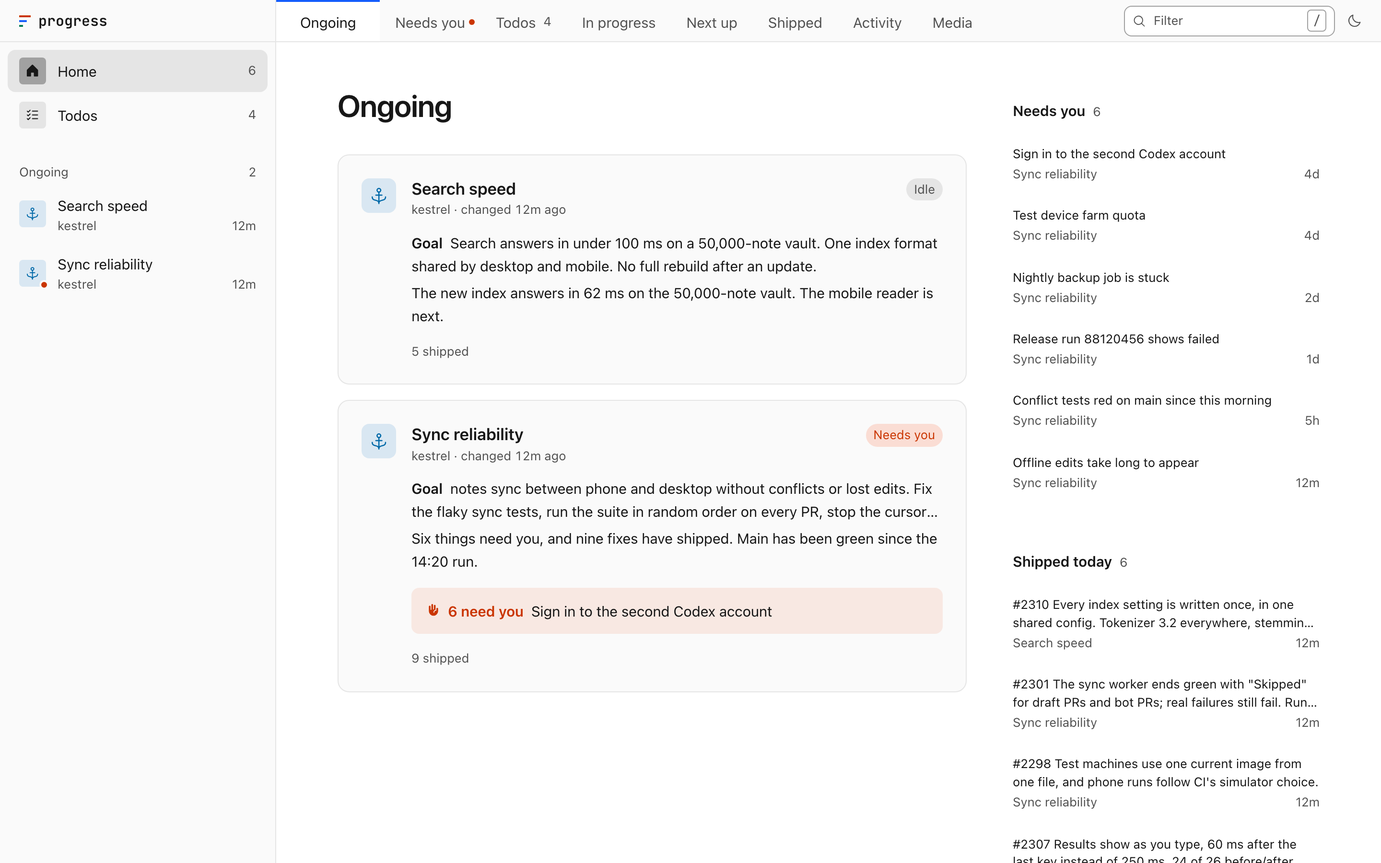
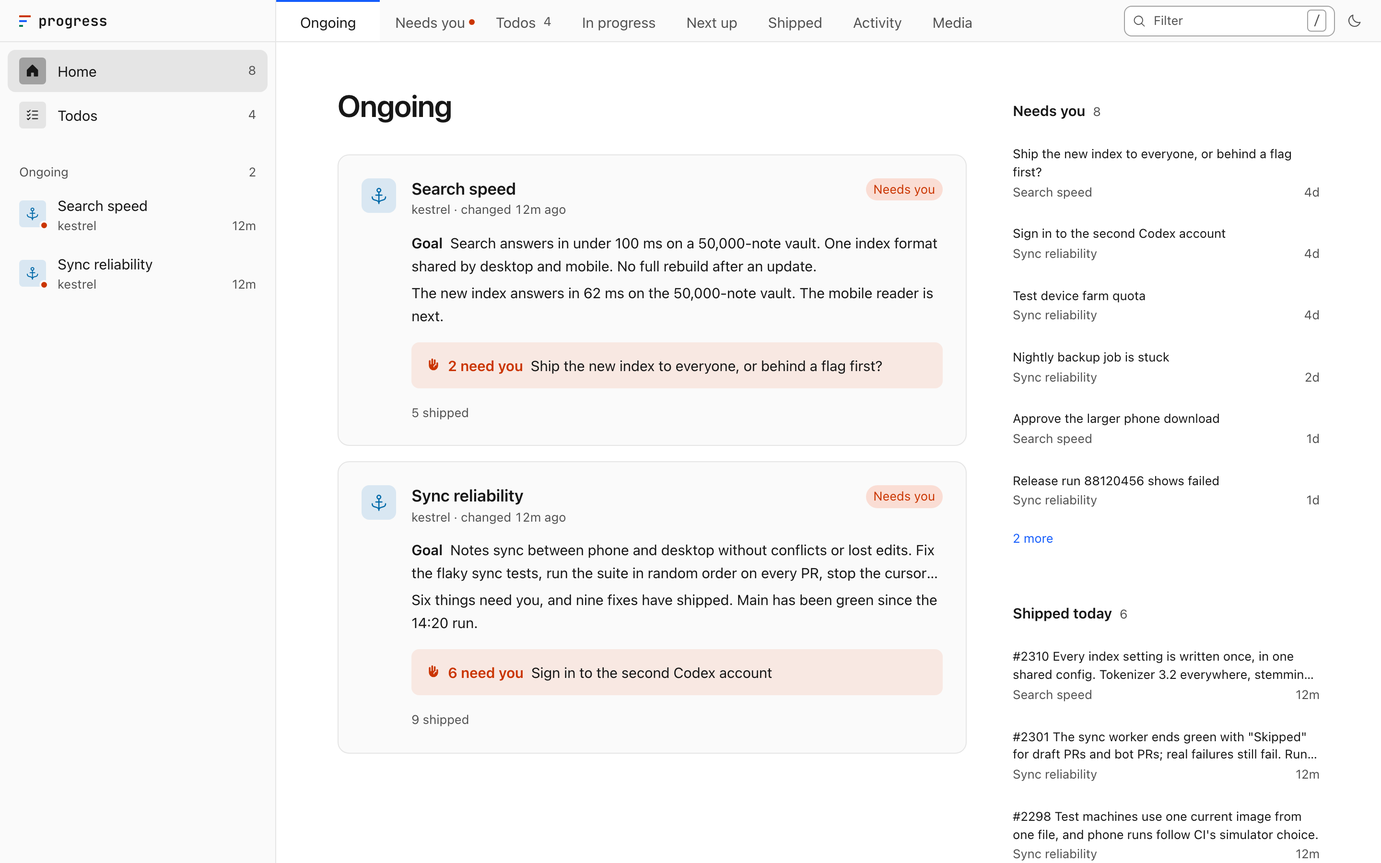
README, setup prompt and sample pages after a cold review and a test run
A reviewer checked the README against the code, and an agent followed
PROMPT.md in a clean Linux container. The README's claims and pictures
now match the hub, the prompt covers git, a fresh Bun and Linux, and
progress check takes the page's own path.

diff --git a/docs/how-it-works.html b/docs/how-it-works.html
@@ -97,14 +97,14 @@
 <main>
   <header>
     <h1>How the progress hub works</h1>
-    <p class="sub">Agents write plain Markdown pages. One small program on this Mac reads those pages and T3, and serves the app you open. It all runs on this Mac.</p>
+    <p class="sub">Agents write plain Markdown pages. One small program on this machine reads those pages and, when you use T3 Code, its database, and serves the app you open. It all runs on this machine.</p>
   </header>
 
   <div class="map">
     <svg viewBox="0 0 1340 470" role="img" aria-label="Agents write pages into the progress home. The hub reads the pages and T3's database, and serves the app to this Mac's browser and, over Tailscale, to a phone.">
       <defs><marker id="arrow" viewBox="0 0 10 10" refX="8.5" refY="5" markerWidth="7" markerHeight="7" orient="auto-start-reverse"><path d="M0 0 L10 5 L0 10 z"/></marker></defs>
       <g class="region violet"><rect x="0" y="0" width="230" height="470" rx="14"/><text x="16" y="28">Agents write</text></g>
-<g class="region teal"><rect x="300" y="0" width="360" height="470" rx="14"/><text x="316" y="28">Files on this Mac</text></g>
+<g class="region teal"><rect x="300" y="0" width="360" height="470" rx="14"/><text x="316" y="28">Files on this machine</text></g>
 <g class="region blue"><rect x="730" y="0" width="260" height="470" rx="14"/><text x="746" y="28">The hub reads and serves</text></g>
 <g class="region emerald"><rect x="1060" y="0" width="280" height="470" rx="14"/><text x="1076" y="28">You read</text></g>
 <g class="edge" data-edge="uses"><path d="M115 236 L115 137" marker-end="url(#arrow)"/><text x="125" y="190" text-anchor="start">runs</text></g>
@@ -121,12 +121,12 @@
 <g class="edge" data-edge="answer"><path d="M1200 236 L1200 361" marker-end="url(#arrow)"/><text x="1190" y="302" text-anchor="end">Answer in thread</text></g>
 <g class="node" data-node="pages" tabindex="0" data-what="A folder that outlives scratch space: one folder per piece of work." data-why="Plain files. An agent edits Markdown and the hub does the rest." data-title="Progress home"><title>A folder that outlives scratch space: one folder per piece of work. Plain files. An agent edits Markdown and the hub does the rest.</title><rect x="316" y="52" width="328" height="290" rx="10"/><g transform="translate(330,68)"><circle cx="18" cy="18" r="18" class="disc"/><path transform="translate(7,7) scale(0.0859)" d="M245,110.64A16,16,0,0,0,232,104H216V88a16,16,0,0,0-16-16H130.67L102.94,51.2a16.14,16.14,0,0,0-9.6-3.2H40A16,16,0,0,0,24,64V208h0a8,8,0,0,0,8,8H211.1a8,8,0,0,0,7.59-5.47l28.49-85.47A16.05,16.05,0,0,0,245,110.64ZM93.34,64,123.2,86.4A8,8,0,0,0,128,88h72v16H69.77a16,16,0,0,0-15.18,10.94L40,158.7V64Zm112,136H43.1l26.67-80H232Z"/></g><text class="t" x="378" y="83">Progress home</text><text class="s" x="378" y="103">one folder per piece of work</text><line class="rule" x1="330" y1="126" x2="630" y2="126"/><g class="frow agent"><circle cx="340" cy="152" r="4"/><text class="f" x="354" y="156">progress.md</text><text class="s" x="468" y="156">the page</text></g><g class="frow agent"><circle cx="340" cy="186" r="4"/><text class="f" x="354" y="190">images/</text><text class="s" x="468" y="190">what the page shows</text></g><g class="frow agent"><circle cx="340" cy="220" r="4"/><text class="f" x="354" y="224">.sessions</text><text class="s" x="468" y="224">its agent sessions</text></g><g class="frow hub"><circle cx="340" cy="254" r="4"/><text class="f" x="354" y="258">.history.jsonl</text><text class="s" x="468" y="258">what changed, and when</text></g><g class="frow hub"><circle cx="340" cy="288" r="4"/><text class="f" x="354" y="292">.marks.json</text><text class="s" x="468" y="292">what you viewed</text></g><line class="rule" x1="330" y1="304" x2="630" y2="304"/><g class="frow agent"><circle cx="340" cy="324" r="4"/><text class="s" x="352" y="328">an agent writes</text></g><g class="frow hub"><circle cx="466" cy="324" r="4"/><text class="s" x="478" y="328">the hub writes</text></g></g>
 <g class="node" data-node="cli" tabindex="0" data-what="A small command line tool." data-why="An agent starts a page with one command, so every page has the same shape." data-title="progress CLI"><title>A small command line tool. An agent starts a page with one command, so every page has the same shape.</title><rect x="16" y="52" width="198" height="76" rx="10"/><g transform="translate(30,68)"><circle cx="18" cy="18" r="18" class="disc"/><path transform="translate(7,7) scale(0.0859)" d="M117.31,134l-72,64a8,8,0,1,1-10.63-12L100,128,34.69,70A8,8,0,1,1,45.32,58l72,64a8,8,0,0,1,0,12ZM216,184H120a8,8,0,0,0,0,16h96a8,8,0,0,0,0-16Z"/></g><text class="t" x="78" y="83">progress CLI</text><text class="s" x="78" y="103">new · join · check</text></g>
-<g class="node" data-node="agent" tabindex="0" data-what="Claude and Codex agents doing the work, each in a T3 thread." data-why="They write the page. Nothing else does." data-title="Agents"><title>Claude and Codex agents doing the work, each in a T3 thread. They write the page. Nothing else does.</title><rect x="16" y="236" width="198" height="76" rx="10"/><g transform="translate(30,252)"><circle cx="18" cy="18" r="18" class="disc"/><path transform="translate(7,7) scale(0.0859)" d="M200,48H136V16a8,8,0,0,0-16,0V48H56A32,32,0,0,0,24,80V192a32,32,0,0,0,32,32H200a32,32,0,0,0,32-32V80A32,32,0,0,0,200,48Zm16,144a16,16,0,0,1-16,16H56a16,16,0,0,1-16-16V80A16,16,0,0,1,56,64H200a16,16,0,0,1,16,16Zm-52-56H92a28,28,0,0,0,0,56h72a28,28,0,0,0,0-56Zm-24,16v24H116V152ZM80,164a12,12,0,0,1,12-12h8v24H92A12,12,0,0,1,80,164Zm84,12h-8V152h8a12,12,0,0,1,0,24ZM72,108a12,12,0,1,1,12,12A12,12,0,0,1,72,108Zm88,0a12,12,0,1,1,12,12A12,12,0,0,1,160,108Z"/></g><text class="t" x="78" y="267">Agents</text><text class="s" x="78" y="287">in T3 threads</text></g>
-<g class="node" data-node="t3" tabindex="0" data-what="T3&#x27;s own record of threads, agents, pull requests and pending questions." data-why="The hub reads it, so agents never type statuses or timestamps." data-title="T3&#x27;s database"><title>T3&#x27;s own record of threads, agents, pull requests and pending questions. The hub reads it, so agents never type statuses or timestamps.</title><rect x="316" y="370" width="328" height="76" rx="10"/><g transform="translate(330,386)"><circle cx="18" cy="18" r="18" class="disc"/><path transform="translate(7,7) scale(0.0859)" d="M128,24C74.17,24,32,48.6,32,80v96c0,31.4,42.17,56,96,56s96-24.6,96-56V80C224,48.6,181.83,24,128,24Zm80,104c0,9.62-7.88,19.43-21.61,26.92C170.93,163.35,150.19,168,128,168s-42.93-4.65-58.39-13.08C55.88,147.43,48,137.62,48,128V111.36c17.06,15,46.23,24.64,80,24.64s62.94-9.68,80-24.64ZM69.61,53.08C85.07,44.65,105.81,40,128,40s42.93,4.65,58.39,13.08C200.12,60.57,208,70.38,208,80s-7.88,19.43-21.61,26.92C170.93,115.35,150.19,120,128,120s-42.93-4.65-58.39-13.08C55.88,99.43,48,89.62,48,80S55.88,60.57,69.61,53.08ZM186.39,202.92C170.93,211.35,150.19,216,128,216s-42.93-4.65-58.39-13.08C55.88,195.43,48,185.62,48,176V159.36c17.06,15,46.23,24.64,80,24.64s62.94-9.68,80-24.64V176C208,185.62,200.12,195.43,186.39,202.92Z"/></g><text class="t" x="378" y="401">T3&#x27;s database</text><text class="s" x="378" y="421">~/.t3/userdata/statev2.sqlite</text></g>
-<g class="node" data-node="hub" tabindex="0" data-what="One small program that starts when you log in." data-why="It turns files and T3 into the app." data-title="The hub"><title>One small program that starts when you log in. It turns files and T3 into the app.</title><rect x="746" y="96" width="228" height="124" rx="10"/><g transform="translate(760,112)"><circle cx="18" cy="18" r="18" class="disc"/><path transform="translate(7,7) scale(0.0859)" d="M128,88a40,40,0,1,0,40,40A40,40,0,0,0,128,88Zm0,64a24,24,0,1,1,24-24A24,24,0,0,1,128,152Zm73.71,7.14a80,80,0,0,1-14.08,22.2,8,8,0,0,1-11.92-10.67,63.95,63.95,0,0,0,0-85.33,8,8,0,1,1,11.92-10.67,80.08,80.08,0,0,1,14.08,84.47ZM69,103.09a64,64,0,0,0,11.26,67.58,8,8,0,0,1-11.92,10.67,79.93,79.93,0,0,1,0-106.67A8,8,0,1,1,80.29,85.34,63.77,63.77,0,0,0,69,103.09ZM248,128a119.58,119.58,0,0,1-34.29,84,8,8,0,1,1-11.42-11.2,103.9,103.9,0,0,0,0-145.56A8,8,0,1,1,213.71,44,119.58,119.58,0,0,1,248,128ZM53.71,200.78A8,8,0,1,1,42.29,212a119.87,119.87,0,0,1,0-168,8,8,0,1,1,11.42,11.2,103.9,103.9,0,0,0,0,145.56Z"/></g><text class="t" x="808" y="127">The hub</text><text class="s" x="808" y="147">one process, port 4747</text><text class="s" x="762" y="180">Looks every 2 seconds.</text><text class="s" x="762" y="200">Tells the app when things change.</text></g>
+<g class="node" data-node="agent" tabindex="0" data-what="Your coding agents doing the work, each in its own session." data-why="They write the page. Nothing else does." data-title="Agents"><title>Your coding agents doing the work, each in its own session. They write the page. Nothing else does.</title><rect x="16" y="236" width="198" height="76" rx="10"/><g transform="translate(30,252)"><circle cx="18" cy="18" r="18" class="disc"/><path transform="translate(7,7) scale(0.0859)" d="M200,48H136V16a8,8,0,0,0-16,0V48H56A32,32,0,0,0,24,80V192a32,32,0,0,0,32,32H200a32,32,0,0,0,32-32V80A32,32,0,0,0,200,48Zm16,144a16,16,0,0,1-16,16H56a16,16,0,0,1-16-16V80A16,16,0,0,1,56,64H200a16,16,0,0,1,16,16Zm-52-56H92a28,28,0,0,0,0,56h72a28,28,0,0,0,0-56Zm-24,16v24H116V152ZM80,164a12,12,0,0,1,12-12h8v24H92A12,12,0,0,1,80,164Zm84,12h-8V152h8a12,12,0,0,1,0,24ZM72,108a12,12,0,1,1,12,12A12,12,0,0,1,72,108Zm88,0a12,12,0,1,1,12,12A12,12,0,0,1,160,108Z"/></g><text class="t" x="78" y="267">Agents</text><text class="s" x="78" y="287">in their own sessions</text></g>
+<g class="node" data-node="t3" tabindex="0" data-what="T3&#x27;s own record of threads, agents, pull requests and pending questions." data-why="The hub reads it, so agents never type statuses or timestamps." data-title="T3 Code&#x27;s database"><title>T3&#x27;s own record of threads, agents, pull requests and pending questions. The hub reads it, so agents never type statuses or timestamps.</title><rect x="316" y="370" width="328" height="76" rx="10"/><g transform="translate(330,386)"><circle cx="18" cy="18" r="18" class="disc"/><path transform="translate(7,7) scale(0.0859)" d="M128,24C74.17,24,32,48.6,32,80v96c0,31.4,42.17,56,96,56s96-24.6,96-56V80C224,48.6,181.83,24,128,24Zm80,104c0,9.62-7.88,19.43-21.61,26.92C170.93,163.35,150.19,168,128,168s-42.93-4.65-58.39-13.08C55.88,147.43,48,137.62,48,128V111.36c17.06,15,46.23,24.64,80,24.64s62.94-9.68,80-24.64ZM69.61,53.08C85.07,44.65,105.81,40,128,40s42.93,4.65,58.39,13.08C200.12,60.57,208,70.38,208,80s-7.88,19.43-21.61,26.92C170.93,115.35,150.19,120,128,120s-42.93-4.65-58.39-13.08C55.88,99.43,48,89.62,48,80S55.88,60.57,69.61,53.08ZM186.39,202.92C170.93,211.35,150.19,216,128,216s-42.93-4.65-58.39-13.08C55.88,195.43,48,185.62,48,176V159.36c17.06,15,46.23,24.64,80,24.64s62.94-9.68,80-24.64V176C208,185.62,200.12,195.43,186.39,202.92Z"/></g><text class="t" x="378" y="401">T3 Code&#x27;s database</text><text class="s" x="378" y="421">~/.t3/userdata/statev2.sqlite</text></g>
+<g class="node" data-node="hub" tabindex="0" data-what="One small program that starts when you log in." data-why="It turns the files and what T3 Code knows into the app." data-title="The hub"><title>One small program that starts when you log in. It turns the files and what T3 Code knows into the app.</title><rect x="746" y="96" width="228" height="124" rx="10"/><g transform="translate(760,112)"><circle cx="18" cy="18" r="18" class="disc"/><path transform="translate(7,7) scale(0.0859)" d="M128,88a40,40,0,1,0,40,40A40,40,0,0,0,128,88Zm0,64a24,24,0,1,1,24-24A24,24,0,0,1,128,152Zm73.71,7.14a80,80,0,0,1-14.08,22.2,8,8,0,0,1-11.92-10.67,63.95,63.95,0,0,0,0-85.33,8,8,0,1,1,11.92-10.67,80.08,80.08,0,0,1,14.08,84.47ZM69,103.09a64,64,0,0,0,11.26,67.58,8,8,0,0,1-11.92,10.67,79.93,79.93,0,0,1,0-106.67A8,8,0,1,1,80.29,85.34,63.77,63.77,0,0,0,69,103.09ZM248,128a119.58,119.58,0,0,1-34.29,84,8,8,0,1,1-11.42-11.2,103.9,103.9,0,0,0,0-145.56A8,8,0,1,1,213.71,44,119.58,119.58,0,0,1,248,128ZM53.71,200.78A8,8,0,1,1,42.29,212a119.87,119.87,0,0,1,0-168,8,8,0,1,1,11.42,11.2,103.9,103.9,0,0,0,0,145.56Z"/></g><text class="t" x="808" y="127">The hub</text><text class="s" x="808" y="147">one process, port 4747</text><text class="s" x="762" y="180">Looks every 2 seconds.</text><text class="s" x="762" y="200">Tells the app when things change.</text></g>
 <g class="node" data-node="gh" tabindex="0" data-what="Titles and states of pull requests and commits." data-why="So a link in a page shows as a named chip." data-title="GitHub"><title>Titles and states of pull requests and commits. So a link in a page shows as a named chip.</title><rect x="746" y="370" width="228" height="76" rx="10"/><g transform="translate(760,386)"><circle cx="18" cy="18" r="18" class="disc"/><path transform="translate(7,7) scale(0.0859)" d="M208.31,75.68A59.78,59.78,0,0,0,202.93,28,8,8,0,0,0,196,24a59.75,59.75,0,0,0-48,24H124A59.75,59.75,0,0,0,76,24a8,8,0,0,0-6.93,4,59.78,59.78,0,0,0-5.38,47.68A58.14,58.14,0,0,0,56,104v8a56.06,56.06,0,0,0,48.44,55.47A39.8,39.8,0,0,0,96,192v8H72a24,24,0,0,1-24-24A40,40,0,0,0,8,136a8,8,0,0,0,0,16,24,24,0,0,1,24,24,40,40,0,0,0,40,40H96v16a8,8,0,0,0,16,0V192a24,24,0,0,1,48,0v40a8,8,0,0,0,16,0V192a39.8,39.8,0,0,0-8.44-24.53A56.06,56.06,0,0,0,216,112v-8A58.14,58.14,0,0,0,208.31,75.68ZM200,112a40,40,0,0,1-40,40H112a40,40,0,0,1-40-40v-8a41.74,41.74,0,0,1,6.9-22.48A8,8,0,0,0,80,73.83a43.81,43.81,0,0,1,.79-33.58,43.88,43.88,0,0,1,32.32,20.06A8,8,0,0,0,119.82,64h32.35a8,8,0,0,0,6.74-3.69,43.87,43.87,0,0,1,32.32-20.06A43.81,43.81,0,0,1,192,73.83a8.09,8.09,0,0,0,1,7.65A41.72,41.72,0,0,1,200,104Z"/></g><text class="t" x="808" y="401">GitHub</text><text class="s" x="808" y="421">through gh</text></g>
-<g class="node" data-node="phone" tabindex="0" data-what="The same app, through your tailnet." data-why="Tailscale forwards port 4747 to this Mac. No account, no cloud." data-title="Phone, other devices"><title>The same app, through your tailnet. Tailscale forwards port 4747 to this Mac. No account, no cloud.</title><rect x="1076" y="52" width="248" height="76" rx="10"/><g transform="translate(1090,68)"><circle cx="18" cy="18" r="18" class="disc"/><path transform="translate(7,7) scale(0.0859)" d="M176,16H80A24,24,0,0,0,56,40V216a24,24,0,0,0,24,24h96a24,24,0,0,0,24-24V40A24,24,0,0,0,176,16ZM72,64H184V192H72Zm8-32h96a8,8,0,0,1,8,8v8H72V40A8,8,0,0,1,80,32Zm96,192H80a8,8,0,0,1-8-8v-8H184v8A8,8,0,0,1,176,224Z"/></g><text class="t" x="1138" y="83">Phone, other devices</text><text class="s" x="1138" y="103">over Tailscale</text></g>
-<g class="node" data-node="browser" tabindex="0" data-what="The app: Home, each work, and the tabs." data-why="It fetches the hub&#x27;s state, and fetches again when the hub says something changed." data-title="Browser on this Mac"><title>The app: Home, each work, and the tabs. It fetches the hub&#x27;s state, and fetches again when the hub says something changed.</title><rect x="1076" y="160" width="248" height="76" rx="10"/><g transform="translate(1090,176)"><circle cx="18" cy="18" r="18" class="disc"/><path transform="translate(7,7) scale(0.0859)" d="M216,40H40A16,16,0,0,0,24,56V200a16,16,0,0,0,16,16H216a16,16,0,0,0,16-16V56A16,16,0,0,0,216,40Zm0,16V88H40V56Zm0,144H40V104H216v96Z"/></g><text class="t" x="1138" y="191">Browser on this Mac</text><text class="s" x="1138" y="211">http://127.0.0.1:4747</text></g>
+<g class="node" data-node="phone" tabindex="0" data-what="The same app, through your tailnet." data-why="Tailscale forwards port 4747 to this machine. No account, no cloud." data-title="Phone, other devices"><title>The same app, through your tailnet. Tailscale forwards port 4747 to this machine. No account, no cloud.</title><rect x="1076" y="52" width="248" height="76" rx="10"/><g transform="translate(1090,68)"><circle cx="18" cy="18" r="18" class="disc"/><path transform="translate(7,7) scale(0.0859)" d="M176,16H80A24,24,0,0,0,56,40V216a24,24,0,0,0,24,24h96a24,24,0,0,0,24-24V40A24,24,0,0,0,176,16ZM72,64H184V192H72Zm8-32h96a8,8,0,0,1,8,8v8H72V40A8,8,0,0,1,80,32Zm96,192H80a8,8,0,0,1-8-8v-8H184v8A8,8,0,0,1,176,224Z"/></g><text class="t" x="1138" y="83">Phone, other devices</text><text class="s" x="1138" y="103">over Tailscale</text></g>
+<g class="node" data-node="browser" tabindex="0" data-what="The app: Home, each work, and the tabs." data-why="It fetches the hub&#x27;s state, and fetches again when the hub says something changed." data-title="Browser on this machine"><title>The app: Home, each work, and the tabs. It fetches the hub&#x27;s state, and fetches again when the hub says something changed.</title><rect x="1076" y="160" width="248" height="76" rx="10"/><g transform="translate(1090,176)"><circle cx="18" cy="18" r="18" class="disc"/><path transform="translate(7,7) scale(0.0859)" d="M216,40H40A16,16,0,0,0,24,56V200a16,16,0,0,0,16,16H216a16,16,0,0,0,16-16V56A16,16,0,0,0,216,40Zm0,16V88H40V56Zm0,144H40V104H216v96Z"/></g><text class="t" x="1138" y="191">Browser on this machine</text><text class="s" x="1138" y="211">http://127.0.0.1:4747</text></g>
 <g class="node" data-node="thread" tabindex="0" data-what="The agent&#x27;s own chat in T3." data-why="The hub only reads. You reply where the agent is." data-title="T3 thread"><title>The agent&#x27;s own chat in T3. The hub only reads. You reply where the agent is.</title><rect x="1076" y="370" width="248" height="76" rx="10"/><g transform="translate(1090,386)"><circle cx="18" cy="18" r="18" class="disc"/><path transform="translate(7,7) scale(0.0859)" d="M140,128a12,12,0,1,1-12-12A12,12,0,0,1,140,128ZM84,116a12,12,0,1,0,12,12A12,12,0,0,0,84,116Zm88,0a12,12,0,1,0,12,12A12,12,0,0,0,172,116Zm60,12A104,104,0,0,1,79.12,219.82L45.07,231.17a16,16,0,0,1-20.24-20.24l11.35-34.05A104,104,0,1,1,232,128Zm-16,0A88,88,0,1,0,51.81,172.06a8,8,0,0,1,.66,6.54L40,216,77.4,203.53a7.85,7.85,0,0,1,2.53-.42,8,8,0,0,1,4,1.08A88,88,0,0,0,216,128Z"/></g><text class="t" x="1138" y="401">T3 thread</text><text class="s" x="1138" y="421">where you answer an agent</text></g>
     </svg>
     <div class="tip" hidden></div>
@@ -143,19 +143,19 @@
     <dl class="facts">
       <div>
         <dt>The hub reads</dt>
-        <dd>The pages, every 2 seconds. T3's database, read-only. GitHub, through <code>gh</code>.</dd>
+        <dd>The pages, every 2 seconds. T3 Code's database, when there is one, read-only. GitHub, through <code>gh</code>.</dd>
         <dt>The hub writes</dt>
         <dd>Files of its own: <code>.history.jsonl</code> in each work, and your marks and todos in <code>.marks.json</code> and <code>.todos.json</code>. It never edits a page.</dd>
         <dt>It runs as</dt>
         <dd>A login service, <code>progress.hub</code>, running <code>~/.local/bin/progress serve</code>. <code>setup.sh</code> installs it.</dd>
         <dt>It answers</dt>
-        <dd>Only this Mac and its tailnet name, on port 4747.</dd>
+        <dd>Only this machine and its tailnet name, on port 4747.</dd>
       </div>
     </dl>
   </div>
 </main>
 <script>
-  const FLOWS = [{"id": "ship", "name": "An agent ships something", "steps": [{"text": "The agent adds a line under Shipped in its page.", "nodes": ["agent", "pages"], "edges": ["write"]}, {"text": "Within 2 seconds the hub sees that the file changed.", "nodes": ["pages", "hub"], "edges": ["read"]}, {"text": "It writes what changed, and when, into the work's history.", "nodes": ["hub", "pages"], "edges": ["save"]}, {"text": "It asks GitHub for the pull request's title.", "nodes": ["hub", "gh"], "edges": ["gh"]}, {"text": "It tells every open app that something changed. Each app fetches the new state.", "nodes": ["hub", "browser", "phone"], "edges": ["serve", "phone"]}]}, {"id": "needs", "name": "An agent needs you", "steps": [{"text": "An agent stops on a question or a permission prompt, and T3 records it. Or it writes an ask under Needs you in its page.", "nodes": ["agent", "t3", "pages"], "edges": ["run", "write"]}, {"text": "The hub reads both.", "nodes": ["t3", "pages", "hub"], "edges": ["t3", "read"]}, {"text": "Needs you shows the ask, on Home and on the work.", "nodes": ["hub", "browser"], "edges": ["serve"]}, {"text": "\u201cAnswer in thread\u201d opens the agent's thread in T3. You reply there.", "nodes": ["browser", "thread"], "edges": ["answer"]}]}, {"id": "viewed", "name": "You mark a line viewed", "steps": [{"text": "You click the ring on a shipped line.", "nodes": ["browser", "hub"], "edges": ["mark"]}, {"text": "The hub saves it in .marks.json, beside the pages.", "nodes": ["hub", "pages"], "edges": ["save"]}, {"text": "Every device shows it, because the marks live with the hub and not in a browser.", "nodes": ["hub", "browser", "phone"], "edges": ["serve", "phone"]}]}, {"id": "start", "name": "An agent starts work", "steps": [{"text": "The agent runs progress new \"<title>\".", "nodes": ["agent", "cli"], "edges": ["uses"]}, {"text": "The command makes the work's folder with a starter page, and notes the agent's session in .sessions.", "nodes": ["cli", "pages"], "edges": ["cli"]}, {"text": "The agent keeps the page current as it works.", "nodes": ["agent", "pages"], "edges": ["write"]}, {"text": "The hub finds the new folder, and the work shows up in the sidebar.", "nodes": ["pages", "hub", "browser"], "edges": ["read", "serve"]}]}, {"id": "phone", "name": "You open it on your phone", "steps": [{"text": "Tailscale forwards port 4747 from your tailnet to the hub on this Mac.", "nodes": ["phone", "hub"], "edges": ["phone"]}, {"text": "The hub answers only this Mac and its tailnet name. Anything else is refused.", "nodes": ["hub"], "edges": []}, {"text": "Same app, same data, same marks.", "nodes": ["hub", "phone", "pages"], "edges": ["phone", "read"]}]}];
+  const FLOWS = [{"id": "ship", "name": "An agent ships something", "steps": [{"text": "The agent adds a line under Shipped in its page.", "nodes": ["agent", "pages"], "edges": ["write"]}, {"text": "Within 2 seconds the hub sees that the file changed.", "nodes": ["pages", "hub"], "edges": ["read"]}, {"text": "It writes what changed, and when, into the work's history.", "nodes": ["hub", "pages"], "edges": ["save"]}, {"text": "It asks GitHub for the pull request's title.", "nodes": ["hub", "gh"], "edges": ["gh"]}, {"text": "It tells every open app that something changed. Each app fetches the new state.", "nodes": ["hub", "browser", "phone"], "edges": ["serve", "phone"]}]}, {"id": "needs", "name": "An agent needs you", "steps": [{"text": "An agent stops on a question or a permission prompt, and T3 records it. Or it writes an ask under Needs you in its page.", "nodes": ["agent", "t3", "pages"], "edges": ["run", "write"]}, {"text": "The hub reads both.", "nodes": ["t3", "pages", "hub"], "edges": ["t3", "read"]}, {"text": "Needs you shows the ask, on Home and on the work.", "nodes": ["hub", "browser"], "edges": ["serve"]}, {"text": "\u201cAnswer in thread\u201d opens the agent's thread in T3. You reply there.", "nodes": ["browser", "thread"], "edges": ["answer"]}]}, {"id": "viewed", "name": "You mark a line viewed", "steps": [{"text": "You click the ring on a shipped line.", "nodes": ["browser", "hub"], "edges": ["mark"]}, {"text": "The hub saves it in .marks.json, beside the pages.", "nodes": ["hub", "pages"], "edges": ["save"]}, {"text": "Every device shows it, because the marks live with the hub and not in a browser.", "nodes": ["hub", "browser", "phone"], "edges": ["serve", "phone"]}]}, {"id": "start", "name": "An agent starts work", "steps": [{"text": "The agent runs progress new \"<title>\".", "nodes": ["agent", "cli"], "edges": ["uses"]}, {"text": "The command makes the work's folder with a starter page, and notes the agent's session in .sessions.", "nodes": ["cli", "pages"], "edges": ["cli"]}, {"text": "The agent keeps the page current as it works.", "nodes": ["agent", "pages"], "edges": ["write"]}, {"text": "The hub finds the new folder, and the work shows up in the sidebar.", "nodes": ["pages", "hub", "browser"], "edges": ["read", "serve"]}]}, {"id": "phone", "name": "You open it on your phone", "steps": [{"text": "Tailscale forwards port 4747 from your tailnet to the hub on this machine.", "nodes": ["phone", "hub"], "edges": ["phone"]}, {"text": "The hub answers only this machine and its tailnet name. Anything else is refused.", "nodes": ["hub"], "edges": []}, {"text": "Same app, same data, same marks.", "nodes": ["hub", "phone", "pages"], "edges": ["phone", "read"]}]}];
   const svg = document.querySelector("svg"), tip = document.querySelector(".tip"), map = document.querySelector(".map");
   const flowsBox = document.querySelector(".flows"), stepsBox = document.querySelector(".steps"), hint = document.querySelector(".hint"), nav = document.querySelector(".nav");
   let flow = null, at = 0;

diff --git a/test/pages.test.ts b/test/pages.test.ts
@@ -21,7 +21,7 @@ test("the sync page reads as six asks, three decisions and nine shipped entries"
   const page = read("sync-reliability");
   expect(page.title).toBe("Sync reliability");
   expect(page.project).toBe("kestrel");
-  expect(page.goal).toStartWith("notes sync between phone and desktop");
+  expect(page.goal).toStartWith("Notes sync between phone and desktop");
   expect(page.summary).toStartWith("Six things need you");
   expect(titles(page, "needs")).toEqual([
     "Sign in to the second Codex account",
@@ -39,10 +39,9 @@ test("the sync page reads as six asks, three decisions and nine shipped entries"
   expect(page.notes).toEqual([]);
 });
 
-test("the search page has nothing waiting on the user and keeps its table as written", () => {
+test("the search page reads as two asks and keeps its table as written", () => {
   const page = read("search-speed");
-  expect(titles(page, "needs")).toEqual([]);
-  expect(page.sections.find((s) => s.kind === "needs")?.markdown).toBe("Nothing right now.");
+  expect(titles(page, "needs")).toEqual(["Ship the new index to everyone, or behind a flag first?", "Approve the larger phone download"]);
   expect(titles(page, "shipped")).toHaveLength(5);
   expect(page.sections.find((s) => s.kind === "shipped")?.items[1]?.markdown).toContain("![Search popover, before and after](images/search-popover.png)");
   expect(titles(page, "decisions")).toHaveLength(3);
@@ -53,7 +52,7 @@ test("the search page has nothing waiting on the user and keeps its table as wri
 test("a blocker written as a paragraph is one Needs you item", () => {
   const page = parsePage("---\ntitle: X\n---\n\n## Needs you (1)\n\nThe deploy key expired. Rotate it in the console.\n");
   expect(titles(page, "needs")).toEqual(["The deploy key expired. Rotate it in the console."]);
-  expect(titles(parsePage("## Needs you\n\nNone right now.\n"), "needs")).toEqual([]);
+  for (const nothing of ["None right now.", "Nothing right now."]) expect(titles(parsePage(`## Needs you\n\n${nothing}\n`), "needs")).toEqual([]);
 });
 
 test("headings inside code fences and the leading title heading are not sections", () => {

diff --git a/src/main.ts b/src/main.ts
@@ -218,7 +218,8 @@ async function commandTodo(args: readonly string[]): Promise<void> {
 function commandCheck(args: readonly string[]): void {
   const target = args[0];
   let folder: string;
-  if (target !== undefined && (target.includes("/") || target === ".")) folder = resolve(target);
+  // A path names the work's folder or the page in it, which is what `new` prints.
+  if (target !== undefined && (target.includes("/") || target === ".")) folder = basename(target) === "progress.md" ? dirname(resolve(target)) : resolve(target);
   else if (target !== undefined) folder = join(progressHome(), target);
   else {
     const thread = currentSession();

diff --git a/test/cli.test.ts b/test/cli.test.ts
@@ -58,6 +58,8 @@ test("check says what the hub read and what to fix", () => {
   expect(out).toContain("Summary: Replace this line");
   progress(["new", 'Fix the "retry" button: again'], env);
   expect(progress(["check", "fix-the-retry-button-again"], env).out).toContain('Title: Fix the "retry" button: again');
+  // The page's own path, as `new` prints it, names the work too.
+  expect(progress(["check", join(home, "search-speed", "progress.md")], env).out).toContain("Title: Search speed");
   expect(progress(["check", "nope"], env).err).toContain(`no progress.md in ${join(home, "nope")}`);
 });
 

diff --git a/README.md b/README.md
@@ -2,7 +2,7 @@
 
 One page per task your coding agents are working on, and a hub in the browser that shows them all.
 
-![The hub with two sample tasks: each task's goal and where it stands on the left, what needs you and what shipped today on the right.](docs/hub-home.png)
+![The hub with two sample tasks. Each task's goal and where it stands are on the left, with what needs you and what shipped today on the right.](docs/hub-home.png)
 
 When several agents run long tasks at once, it is hard to know which one is waiting for you and what each one finished. Each agent keeps one Markdown page for its task, and the hub shows the pages together. It runs on your machine, with no account.
 
@@ -10,33 +10,33 @@ When several agents run long tasks at once, it is hard to know which one is wait
 
 ### What needs you
 
-![The Needs you tab with sample data: each question as a card, with the task it came from and how long it has waited.](docs/hub-needs.png)
+![The Needs you tab with sample data. Each question is a card, with the task it came from and how long it has waited.](docs/hub-needs.png)
 
-Every question and blocker your agents have written down, from all tasks, with the one that has waited longest on top.
+This tab lists every question and blocker your agents have written down, from all tasks, with the one that has waited longest on top.
 
 ### What shipped
 
-![A task's Shipped tab with sample data: lines grouped by day, each with its pull request, three of them ticked as viewed.](docs/hub-shipped.png)
+![A task's Shipped tab with sample data. Lines are grouped by day, each with its pull request or commit, and three are ticked as viewed.](docs/hub-shipped.png)
 
-What each task finished, by day, with a link to its pull request. Tick a line once you have looked at it, and the tab counts the ones you have not.
+This tab lists what each task finished, by day, with a link to its pull request. Tick a line once you have looked at it, and the Mark all button counts the ones you have not.
 
 ### A task's page
 
-![A task's page with sample data: its goal, where it stands, and what shipped with pictures.](docs/hub-work.png)
+![A task's page with sample data. It shows the goal, where the task stands, and what shipped with pictures.](docs/hub-work.png)
 
-The page as the agent wrote it, with its goal, where it stands, its decisions and its pictures. An outline follows the scroll, and a mark shows what is new since you last opened it.
+The hub shows the page as the agent wrote it, with its goal, where it stands, its decisions and its pictures. An outline marks the section you are reading, and a dot shows what is new since you last opened it.
 
 ### Media
 
-![The Media tab with sample data: screenshots and a chart from one task, as a gallery.](docs/hub-media.png)
+![The Media tab with sample data. Screenshots from one task are shown as a gallery.](docs/hub-media.png)
 
-The screenshots, videos and pages your agents made, from every task, newest first.
+This tab shows the screenshots, videos and pages your agents made, from every task, newest first.
 
 ### Todos
 
-![The Todos tab with sample data: four todos, two linked to a task and one to a project.](docs/hub-todos.png)
+![The Todos tab with sample data. A new todo is being typed, and the menu that links it to a task is open.](docs/hub-todos.png)
 
-Your own list of things to do later. Type `@` and a task's name to link a todo to it, and the todo says when that task is over.
+This is your own list of things to do later. Type `@` and a task's name to link a todo to it, and the todo says when that task is over.
 
 ### Light and dark
 
@@ -44,8 +44,6 @@ Your own list of things to do later. Type `@` and a task's name to link a todo t
   <img src="docs/hub-home.png" width="49%" alt="The hub's first screen in the dark theme.">
   <img src="docs/hub-home-light.png" width="49%" alt="The same screen in the light theme.">
 </p>
-
-The hub follows your system's theme, and a button in the top bar switches it.
 
 ### On your phone
 
@@ -55,7 +53,7 @@ The hub follows your system's theme, and a button in the top bar switches it.
   <img src="docs/phone-work.png" width="30%" alt="A task's page on a phone.">
 </p>
 
-On a Mac with Tailscale, setup makes the same hub open on your phone and your other machines.
+On a Mac with Tailscale, setup makes the hub reachable from your phone and your other machines.
 
 ## Getting started
 
@@ -65,6 +63,6 @@ Give this to your coding agent:
 Set up https://github.com/triptu/progress-hub on this machine. Follow PROMPT.md in that repo.
 ```
 
-It installs the hub on macOS or Linux and tells your agents to keep a page for each task. To keep the pages in another folder, update the hub or remove it, ask the agent.
+It installs the hub on macOS or Linux and tells your agents to keep a page for each task. Later, ask the agent to move the pages to another folder, update the hub, or remove it.
 
-Any agent that can run a command can keep a page. With T3 Code, the hub also shows each task's agents, their pull requests, and any agent that has stopped on a question.
+Any agent that can run a command can keep a page. With [T3 Code](https://github.com/pingdotgg/t3code), which runs coding agents, the hub also shows each task's agents, their pull requests, and any agent that has stopped to ask you something.

diff --git a/PROMPT.md b/PROMPT.md
@@ -2,24 +2,24 @@
 
 You are setting up the progress hub for the person who gave you this file. Do each step yourself. Ask them only where a step says to.
 
-1. **Get the code.** If this repo is not on the machine yet, clone https://github.com/triptu/progress-hub into a folder that lasts, such as `~/code/progress-hub`, not a temporary one. Setup builds from the clone, and an update is a pull and setup again.
-2. **Bun.** If `bun` is not installed, install it from https://bun.sh.
-3. **Run `bash setup.sh`** in the clone. It builds `progress`, puts it in `~/.local/bin`, and prints a line for each thing it did (`ok`) and each thing left to do (`todo`).
+1. **Git and Bun.** Install whichever is missing. Bun is at https://bun.sh. A fresh Bun is in `~/.bun/bin`, which this shell has not read yet, so add it to `PATH` before the next steps.
+2. **Get the code.** If this repo is not on the machine yet, clone https://github.com/triptu/progress-hub into a folder that lasts, such as `~/code/progress-hub`, not a temporary one. Setup builds from the clone, and an update is a pull and setup again.
+3. **Run `bash setup.sh`** in the clone. It builds `progress` and puts it in `~/.local/bin`. It prints an `ok` line for what is ready and a `todo` line for each thing left to do.
    - Do every `todo` you can. The usual one is putting `~/.local/bin` on the `PATH` the person's agents start with, in their shell profile.
    - Tell the person about a `todo` only they can do, such as signing in to `gh` or connecting Tailscale. Both are optional: `gh` adds pull request titles, and Tailscale on a Mac opens the hub from their phone.
    - Pages are kept in `~/progress`. If the person wants another folder, run `PROGRESS_HOME=/that/folder bash setup.sh` instead.
-   - On macOS setup starts the hub as a login service. On Linux nothing starts it. Run `progress serve` the way that machine keeps a program running (a systemd user unit, for one), or tell the person to start it.
+   - On macOS setup starts the hub as a login service. On Linux nothing starts it. Run `progress serve` the way that machine keeps a program running (a systemd user unit, for one), or tell the person to start it. Check that the address it prints answers.
 4. **Tell their agents.** Add the two lines below to the instruction file each of their agents reads on every task, such as `~/.claude/CLAUDE.md` or `~/.codex/AGENTS.md`. Ask which agents they use if you can't tell.
 
    ```
    For any task I will come back to, run `progress new "<title>"` when you start, and keep the page it
    prints current as you work. Run `progress format` once to read the page format.
    ```
-5. **Make the first page.** Run `progress new "Set up progress"` for this session. Run `progress format`, fill the page in as it says, and run `progress check set-up-progress` to see what the hub read.
+5. **Make the first page.** Run `progress new "Set up progress"` for this session. It prints the page's path and its link in the hub. Run `progress format`, fill the page in as it says, and run `progress check <that path>` to see what the hub reads from it. The hub shows a changed page within a few seconds.
 6. **Report.** Give the person the link `progress new` printed, the folder their pages are in, the instruction files you changed, and any `todo` left for them.
 
 ## Later
 
-- **Update.** Pull in the clone, then run `bash setup.sh` again.
+- **Update.** Pull in the clone, then run `bash setup.sh` again. On Linux, restart `progress serve` after it.
 - **Move the pages.** Move the folder, then run `PROGRESS_HOME=/new/folder bash setup.sh`.
-- **Remove.** On macOS, run `launchctl bootout gui/$(id -u)/progress.hub` and delete `~/Library/LaunchAgents/progress.hub.plist`. Delete `~/.local/bin/progress` and `~/.config/progress`, and take the two lines out of the instruction files. If setup made a Tailscale forward, `tailscale serve status` shows it. Leave the pages folder unless the person says to delete their pages.
+- **Remove.** On macOS, run `launchctl bootout gui/$(id -u)/progress.hub` and delete `~/Library/LaunchAgents/progress.hub.plist` and `~/Library/Logs/progress.log`. On Linux, stop `progress serve` and undo whatever you set up to keep it running. Delete `~/.local/bin/progress` and `~/.config/progress`, and take the two lines out of the instruction files and the `PATH` line out of the shell profile if you added one. If setup made a Tailscale forward, `tailscale serve status` shows it, and it is yours to turn off. Leave the pages folder unless the person says to delete their pages.

diff --git a/CLAUDE.md b/CLAUDE.md
@@ -13,9 +13,9 @@ One Markdown page per task that agents work on, and a hub in the browser that sh
 ## How the code is shaped
 
 - **`src/core/`** reads a page into sections and items (`parse.ts`), works out what changed between two reads of it (`journal.ts`), and holds the types.
-- **`src/sources/`** is how agents are read. `AgentSource` in `source.ts` is the one interface: which session a command runs in, what the harness knows about a list of sessions, and the link that opens one. T3 Code is the one adapter (`src/t3/`), found when the hub starts on a machine T3 has run on. Another harness is one adapter file and a line in `index.ts`. A work lists its sessions as `<harness>:<id>` in `.sessions`, so one work can have agents from several harnesses. The page format knows nothing about any of them.
-- **`src/stores/`** is where works are kept. `WorkStore` in `store.ts` is the one interface: the store's state, one work's page, its media, and a file. `DiskStore` (`disk/`) is the default, a folder on this machine. Another machine's hub is a second store (`remote.ts`). A store answers with finished state: pages already rendered, with what needs the user, the plan and the feed worked out. Stores are put together in `src/main.ts`. The user's viewed marks and todos are two files the hub keeps in the progress home (`marks.ts`, `todos.ts`).
-- **`src/server/serve.ts`** serves the app and the stores' answers. It knows only the store interface.
+- **`src/sources/`** is how agents are read. `AgentSource` in `source.ts` is the one interface: which session a command runs in, what the harness knows about a list of sessions, and the link that opens one. T3 Code is the one adapter (`src/t3/`), found on a machine T3 has run on. Another harness is one adapter file and a line in `index.ts`. A work lists its sessions as `<harness>:<id>` in `.sessions`, so one work can have agents from several harnesses. The page format knows nothing about any of them.
+- **`src/stores/`** is where works are kept. `WorkStore` in `store.ts` is the one interface: the store's state, one work's page, its media, and a file. `DiskStore` (`disk/`) is the default, a folder on this machine. Another machine's hub is a second store (`remote.ts`). A store answers with finished state: pages already rendered, with what needs the user, the plan and the feed worked out. `src/main.ts` finds the other machines' stores and hands them to the server. The user's viewed marks and todos are two files the hub keeps in the progress home (`marks.ts`, `todos.ts`).
+- **`src/server/serve.ts`** serves the app and the stores' answers. It builds this machine's `DiskStore` and joins it with the other stores in `Stores` (`store.ts`). Everything it serves goes through that.
 - **`src/web/`** is the app. Each view's styles are in a CSS Module beside it, and three rules keep two views from clashing:
   - A class is a name owned by one view.
   - A value is an attribute: a phase, a weight, a size or a status is `data-phase`, `data-weight` and so on, and a state the element already says for assistive tools is read from there (`aria-current`, `aria-pressed`).

diff --git a/test/pages/sync-reliability/progress.md b/test/pages/sync-reliability/progress.md
@@ -3,7 +3,7 @@ title: Sync reliability
 project: kestrel
 ---
 
-Goal: notes sync between phone and desktop without conflicts or lost edits. Fix the flaky sync tests, run the suite in random order on every PR, stop the cursor jump after a remote edit, and keep fixing failures until main stays green for a day.
+Goal: Notes sync between phone and desktop without conflicts or lost edits. Fix the flaky sync tests, run the suite in random order on every PR, stop the cursor jump after a remote edit, and keep fixing failures until main stays green for a day.
 
 Six things need you, and nine fixes have shipped. Main has been green since the 14:20 run.
 

diff --git a/test/pages/search-speed/progress.md b/test/pages/search-speed/progress.md
@@ -13,7 +13,11 @@ The new index answers in 62 ms on the 50,000-note vault. The mobile reader is ne
 
 ## Needs you
 
-Nothing right now.
+### Ship the new index to everyone, or behind a flag first?
+A flag means a week of keeping both indexes built and tested. My pick is everyone: the new index is faster in every case measured, and the old one stays one release back if it has to return.
+
+### Approve the larger phone download
+The shared index adds 4 MB to the phone app. Under the store's cellular limit, but it is your call before the release build.
 
 ## Shipped and in review
 
